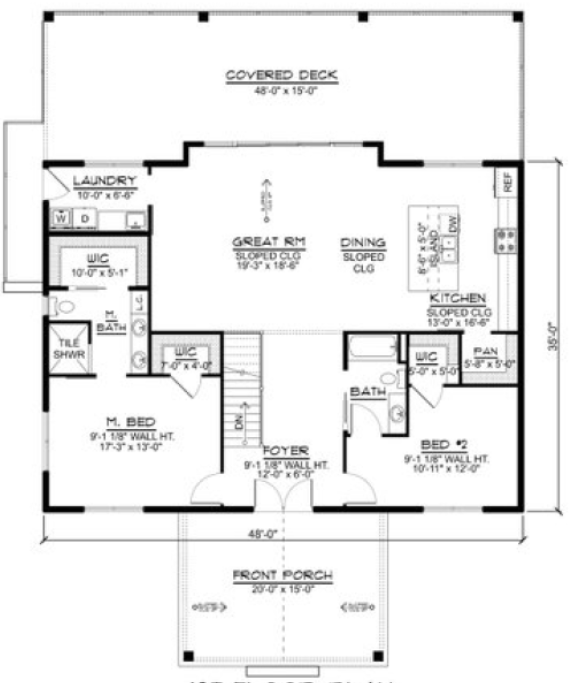
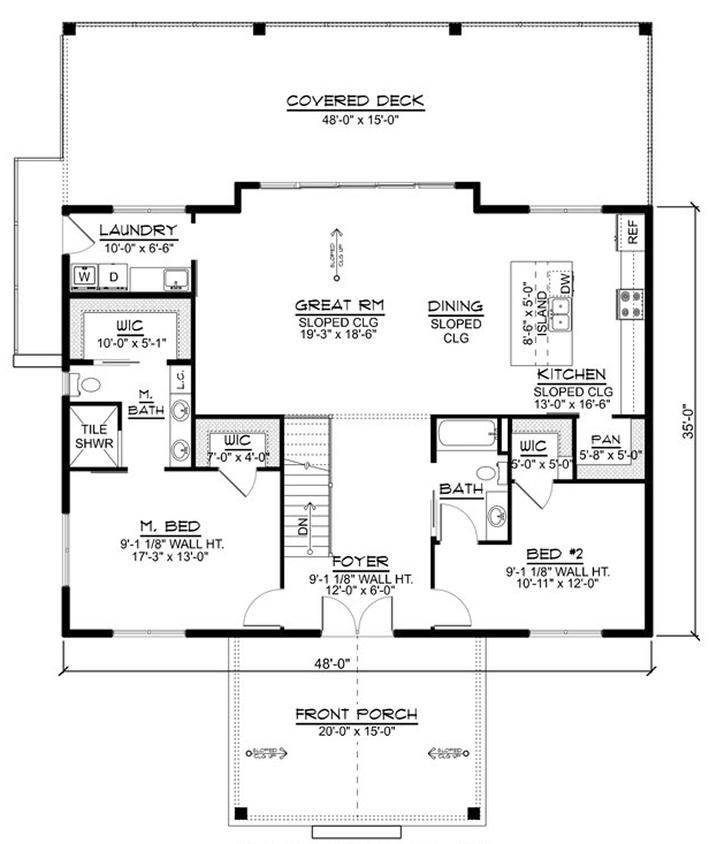
edit: blueprints images map and added pantry
edit: blueprints images map and added pantry

Changed region(s): [[0.0, 0.0, 1.0, 1.0], [0.3843, 0.0922, 0.5913, 0.1537], [0.5913, 0.3382, 0.68, 0.4305]]

diff --git a/main.py b/main.py
@@ -503,8 +503,8 @@ class Api:
 				# Generate HTML
 
 				result = """
-				<img src='assets/blueprints/duplex2.png' usemap="#image-map" style="width:auto; height:auto">
-				<map name="image-map">
+				<img src='assets/blueprints/duplex2.png' usemap="#image-map" style="width:auto; height:auto"><br>
+				<map name="image-map" style="display:none">
 				    <area id="duplex2_bedroom1" class="droptarget" data-bs-toggle="modal" data-bs-target="#duplex2_bedroom1Modal" alt="bedroom1" title="Click to View Bedroom 1" coords="17,424,223,637" shape="rect">
 				    <area id="duplex2_bedroom2" class="droptarget" data-bs-toggle="modal" data-bs-target="#duplex2_bedroom2Modal" alt="bedroom2" title="Click to View Bedroom 2" coords="211,14,379,225" shape="rect">
 				    <area id="duplex2_bedroom3" class="droptarget" data-bs-toggle="modal" data-bs-target="#duplex2_bedroom3Modal" alt="bedroom3" title="Click to View Bedroom 3" coords="16,16,184,227" shape="rect">
@@ -733,19 +733,19 @@ class Api:
 					'cont1_master_bathroom': 'cont1_master_bathroom'
 				}
 				result = """
-				<img src='assets/blueprints/contemporary1.png' usemap="#image-map" style="width:auto; height:auto">
+				<img src='assets/blueprints/contemporary1.png' usemap="#image-map" style="width:auto; height:auto"><br>
 
-				<map name="image-map">
-				    <area id="cont1_patio" class="droptarget" data-bs-toggle="modal" data-bs-target="#cont1_patioModal" alt="patio" title="Click to View Patio" coords="220,27,399,147" shape="rect">
-				    <area id="cont1_garage" class="droptarget" data-bs-toggle="modal" data-bs-target="#cont1_garageModal" alt="garage" title="Click to View Garage" coords="21,57,201,332" shape="rect">
-				    <area id="cont1_pantry" class="droptarget" data-bs-toggle="modal" data-bs-target="#cont1_pantryModal" alt="pantry" title="Click to View Pantry" coords="213,231,295,278" shape="rect">
+				<map name="image-map" style="display:none">
+				    <area id="cont1_patio" class="droptarget" data-bs-toggle="modal" data-bs-target="#cont1_patioModal" alt="patio" title="Click to View Patio" coords="234,27,438,163" shape="rect">
+				    <area id="cont1_garage" class="droptarget" data-bs-toggle="modal" data-bs-target="#cont1_garageModal" alt="garage" title="Click to View Garage" coords="35,70,213,356" shape="rect">
+				    <area id="cont1_pantry" class="droptarget" data-bs-toggle="modal" data-bs-target="#cont1_pantryModal" alt="pantry" title="Click to View Pantry" coords="233,297,318,248" shape="rect">
 				    <area id="cont1_kitchen" class="droptarget" data-bs-toggle="modal" data-bs-target="#cont1_kitchenModal" alt="kitchen" title="Click to View Kitchen" coords="306,171,428,368" shape="rect">
 				    <area id="cont1_bedroom2" class="droptarget" data-bs-toggle="modal" data-bs-target="#cont1_bedroom2Modal" alt="bedroom2" title="Click to View Bedroom 2" coords="471,171,598,326" shape="rect">
 				    <area id="cont1_bedroom3" class="droptarget" data-bs-toggle="modal" data-bs-target="#cont1_bedroom3Modal" alt="bedroom3" title="Click to View Bedroom 3" coords="612,173,780,293" shape="rect">
 				    <area id="cont1_greatroom" class="droptarget" data-bs-toggle="modal" data-bs-target="#cont1_greatroomModal" alt="greatroom" title="Click to View Great Room" coords="305,369,497,596" shape="rect">
-				    <area id="cont1_masterbedroom" class="droptarget" data-bs-toggle="modal" data-bs-target="#cont1_masterbedroomModal" alt="masterbedroom" title="Click to View Master Bedroom" coords="516,445,696,609" shape="rect">
-				    <area id="cont1_bathroom" class="droptarget" data-bs-toggle="modal" data-bs-target="#cont1_bathroomModal" alt="bathroom" title="Click to View Bathroom" coords="709,309,779,419" shape="rect">
-				    <area id="cont1_master_bathroom" class="droptarget" data-bs-toggle="modal" data-bs-target="#cont1_master_bathroomModal" alt="master_bathroom" title="Click to View Master Bathroom" coords="709,434,779,544" shape="rect">
+				    <area id="cont1_masterbedroom" class="droptarget" data-bs-toggle="modal" data-bs-target="#cont1_masterbedroomModal" alt="masterbedroom" title="Click to View Master Bedroom" coords="558,475,749,656" shape="rect">
+				    <area id="cont1_bathroom" class="droptarget" data-bs-toggle="modal" data-bs-target="#cont1_bathroomModal" alt="bathroom" title="Click to View Bathroom" coords="763,328,838,449" shape="rect">
+				    <area id="cont1_master_bathroom" class="droptarget" data-bs-toggle="modal" data-bs-target="#cont1_master_bathroomModal" alt="master_bathroom" title="Click to View Master Bathroom" coords="763,461,837,587" shape="rect">
 				</map>
 
 				<!-- Modal for Cont1 Patio -->
@@ -961,8 +961,8 @@ class Api:
 					'duplex3_living': 'duplex3_living'
 				}
 				result = """
-			<img src='assets/blueprints/duplex3.png' usemap="#image-map" style="width:auto; height:auto">
-				<map name="image-map">
+			<img src='assets/blueprints/duplex3.png' usemap="#image-map" style="width:auto; height:auto"><br>
+				<map name="image-map" style="display:none">
 				    <area id="duplex3_porch1" class="droptarget" data-bs-toggle="modal" data-bs-target="#duplex3_porch1Modal" alt="dining-kitchen1" title="Click to View Appliances" coords="30,895,243,965" shape="rect">
 				    <area id="duplex3_porch2" class="droptarget" data-bs-toggle="modal" data-bs-target="#duplex3_porch2Modal" alt="dining-kitchen1" title="Click to View Appliances" coords="40,6,277,91" shape="rect">
 				    <area id="duplex3_bedroom" class="droptarget" data-bs-toggle="modal" data-bs-target="#duplex3_bedroomModal" alt="dining-kitchen1" title="Click to View Appliances" coords="40,118,283,318" shape="rect">
@@ -1107,8 +1107,8 @@ class Api:
 
 				}
 				result = """
-				<img src='assets/blueprints/bungalow1.png' usemap="#image-map" style="width:auto; height:auto">
-				<map name="image-map">
+				<img src='assets/blueprints/bungalow1.png' usemap="#image-map" style="width:auto; height:auto"><br>
+				<map name="image-map" style="display:none">
 				    <area id="bungalow1_dining_kitchen" class="droptarget" data-bs-toggle="modal" data-bs-target="#bungalow1_dining_kitchenModal" alt="dining-kitchen1" title="Click to View Appliances" coords="230,303,60,194" shape="rect">
 				    <area id="bungalow1_bedroom1" class="droptarget" data-bs-toggle="modal" data-bs-target="#bungalow1_bedroom1Modal" alt="dining-kitchen1" title="Click to View Appliances" coords="428,243,267,144" shape="rect">
 				    <area id="bungalow1_bedroom2" class="droptarget" data-bs-toggle="modal" data-bs-target="#bungalow1_bedroom2Modal" alt="dining-kitchen1" title="Click to View Appliances" coords="616,241,483,145" shape="rect">
@@ -1341,25 +1341,49 @@ class Api:
 					'cont2_covered_porch': 'cont2_covered_porch',
 
 					'cont2_bathroom': 'cont2_bathroom',
-					'cont2_bed3': 'cont2_bed3'
+					'cont2_bed3': 'cont2_bed3',
+					'cont2_pantry':'cont2_pantry'
 				}
 				result = """
-				<img src='assets/blueprints/contemporary2.png' usemap="#image-map" style="width:auto; height:auto">
-				<map name="image-map">
-				    <area id="cont2_mudroom" class="droptarget" data-bs-toggle="modal" data-bs-target="#cont2_mudroomModal" alt="mudroom" title="Click to View Mud Room" coords="16,27,230,106" shape="rect">
-				    <area id="cont2_kitchen" class="droptarget" data-bs-toggle="modal" data-bs-target="#cont2_kitchenModal" alt="kitchen" title="Click to View Kitchen" coords="241,27,445,165" shape="rect">
-				    <area id="cont2_bed2" class="droptarget" data-bs-toggle="modal" data-bs-target="#cont2_bed2Modal" alt="bed2" title="Click to View Bedroom 2" coords="460,30,605,164" shape="rect">
-				    <area id="cont2_mech" class="droptarget" data-bs-toggle="modal" data-bs-target="#cont2_mechModal" alt="mech" title="Click to View Mechanical" coords="20,111,136,152" shape="rect">
-				    <area id="cont2_master_bathroom" class="droptarget" data-bs-toggle="modal" data-bs-target="#cont2_master_bathroomModal" alt="master_bathroom" title="Click to View Master Bathroom" coords="21,163,134,264" shape="rect">
-				    <area id="cont2_wic" class="droptarget" data-bs-toggle="modal" data-bs-target="#cont2_wicModal" alt="wic" title="Click to View Walk-In Closet" coords="145,199,228,273" shape="rect">
-				    <area id="cont2_dining" class="droptarget" data-bs-toggle="modal" data-bs-target="#cont2_diningModal" alt="dining" title="Click to View Dining Room" coords="240,178,446,290" shape="rect">
-				    <area id="cont2_living" class="droptarget" data-bs-toggle="modal" data-bs-target="#cont2_livingModal" alt="living" title="Click to View Living Room" coords="239,295,444,466" shape="rect">
-				    <area id="cont2_covered_porch" class="droptarget" data-bs-toggle="modal" data-bs-target="#cont2_covered_porchModal" alt="covered_porch" title="Click to View Covered Porch" coords="14,477,606,567" shape="rect">
-				    <area id="cont2_bathroom" class="droptarget" data-bs-toggle="modal" data-bs-target="#cont2_bathroomModal" alt="bathroom" title="Click to View Bathroom" coords="497,202,606,292" shape="rect">
+				<img src='assets/blueprints/contemporary2.png' usemap="#image-map" style="width:auto; height:auto"><br>
+				<map name="image-map" style="display:none">
+				    <area id="cont2_mudroom" class="droptarget" data-bs-toggle="modal" data-bs-target="#cont2_mudroomModal" alt="mudroom" title="Click to View Mud Room" coords="79,52,364,162" shape="rect">
+				    <area id="cont2_kitchen" class="droptarget" data-bs-toggle="modal" data-bs-target="#cont2_kitchenModal" alt="kitchen" title="Click to View Kitchen" coords="385,82,586,248" shape="rect">
+				    <area id="cont2_bed2" class="droptarget" data-bs-toggle="modal" data-bs-target="#cont2_bed2Modal" alt="bed2" title="Click to View Bedroom 2" coords="685,53,888,246" shape="rect">
+				    <area id="cont2_mech" class="droptarget" data-bs-toggle="modal" data-bs-target="#cont2_mechModal" alt="mech" title="Click to View Mechanical" coords="73,173,234,225" shape="rect">
+				    <area id="cont2_master_bathroom" class="droptarget" data-bs-toggle="modal" data-bs-target="#cont2_master_bathroomModal" alt="master_bathroom" title="Click to View Master Bathroom" coords="76,237,237,391" shape="rect">
+				    <area id="cont2_wic" class="droptarget" data-bs-toggle="modal" data-bs-target="#cont2_wicModal" alt="wic" title="Click to View Walk-In Closet" coords="249,251,367,387" shape="rect">
+				    <area id="cont2_dining" class="droptarget" data-bs-toggle="modal" data-bs-target="#cont2_diningModal" alt="dining" title="Click to View Dining Room" coords="386,255,667,441" shape="rect">
+				    <area id="cont2_living" class="droptarget" data-bs-toggle="modal" data-bs-target="#cont2_livingModal" alt="living" title="Click to View Living Room" coords="379,444,665,662" shape="rect">
+				    <area id="cont2_covered_porch" class="droptarget" data-bs-toggle="modal" data-bs-target="#cont2_covered_porchModal" alt="covered_porch" title="Click to View Covered Porch" coords="68,684,898,802" shape="rect">
+				    <area id="cont2_bathroom" class="droptarget" data-bs-toggle="modal" data-bs-target="#cont2_bathroomModal" alt="bathroom" title="Click to View Bathroom" coords="741,293,890,407" shape="rect">
 				  	<area id="cont2_master_bedroom" class="droptarget" data-bs-toggle="modal" data-bs-target="#cont2_master_bedroomModal" alt="master_bathroom" title="Click to View Master Bathroom" coords="34,291,210,432" shape="rect">  
-				    <area id="cont2_bed3" class="droptarget" data-bs-toggle="modal" data-bs-target="#cont2_bed3Modal" alt="bed3" title="Click to View Bedroom 3" coords="460,316,601,444" shape="rect">
+				    <area id="cont2_bed3" class="droptarget" data-bs-toggle="modal" data-bs-target="#cont2_bed3Modal" alt="bed3" title="Click to View Bedroom 3" coords="690,438,890,636" shape="rect">
+				    <area id="cont2_pantry" class="droptarget" data-bs-toggle="modal" data-bs-target="#cont2_pantryModal" alt="bed3" title="Click to View Pantry" coords="594,50,673,130" shape="rect">
+
+
 				</map>
 
+
+
+				<div class="modal fade" id="cont2_pantryModal" data-bs-backdrop="static" data-bs-keyboard="false" tabindex="-1" role="dialog" aria-labelledby="exampleModalLabel" aria-hidden="true">
+				    <div class="modal-dialog modal-dialog-centered" role="document">
+				        <div class="modal-content">
+				            <div class="modal-header">
+				                <h5 class="modal-title" id="exampleModalLabel">Pantry</h5>
+				                <div style="width:100px" class="row">
+				                    <img src="delete.png" style="margin: auto; width: 35px!important;" class="droptarget" id="delete" style="width:45px;height:45px;border:none!important;">
+				                    <div class="col p-2">
+				                        <button type="button" class="btn-close" data-bs-dismiss="modal" aria-label="Close"></button>
+				                    </div>
+				                </div>
+				            </div>
+				            <div class="modal-body d-flex">
+				                {cont2_pantry}
+				            </div>
+				        </div>
+				    </div>
+				</div>
 
 
 				<div class="modal fade" id="cont2_master_bedroomModal" data-bs-backdrop="static" data-bs-keyboard="false" tabindex="-1" role="dialog" aria-labelledby="exampleModalLabel" aria-hidden="true">
@@ -1614,16 +1638,16 @@ class Api:
 
 				}
 				result = """
-				<img src='assets/blueprints/duplex1.png' usemap="#image-map" style="width:auto; height:auto; margin:auto">
-				<map name="image-map">
-				    <area id="duplex1_service" class="droptarget" data-bs-toggle="modal" data-bs-target="#duplex1_serviceModal" alt="service" title="Click to View Service" coords="438,95,578,141" shape="rect">
-				    <area id="duplex1_bathroom" class="droptarget" data-bs-toggle="modal" data-bs-target="#duplex1_bathroomModal" alt="bathroom" title="Click to View Bathroom" coords="352,134,422,247" shape="rect">
-				    <area id="duplex1_bedroom1" class="droptarget" data-bs-toggle="modal" data-bs-target="#duplex1_bedroom1Modal" alt="bedroom1" title="Click to View Bedroom 1" coords="187,171,336,317" shape="rect">
-				    <area id="duplex1_bedroom2" class="droptarget" data-bs-toggle="modal" data-bs-target="#duplex1_bedroom2Modal" alt="bedroom2" title="Click to View Bedroom 2" coords="188,342,336,496" shape="rect">
-				    <area id="duplex1_kitchen" class="droptarget" data-bs-toggle="modal" data-bs-target="#duplex1_kitchenModal" alt="kitchen" title="Click to View Kitchen" coords="440,153,595,263" shape="rect">
-				    <area id="duplex1_dining" class="droptarget" data-bs-toggle="modal" data-bs-target="#duplex1_diningModal" alt="dining" title="Click to View Dining" coords="348,270,593,415" shape="rect">
-				    <area id="duplex1_living_room" class="droptarget" data-bs-toggle="modal" data-bs-target="#duplex1_living_roomModal" alt="living room" title="Click to View Living Room" coords="351,428,457,425,585,429,585,585,427,589,430,506,353,505,349,428" shape="poly">
-				    <area id="duplex1_porch" class="droptarget" data-bs-toggle="modal" data-bs-target="#duplex1_porchModal" alt="porch" title="Click to View Porch" coords="178,522,414,600" shape="rect">
+				<img src='assets/blueprints/duplex1.png' usemap="#image-map" style="width:auto; height:auto; margin:auto"> <br>
+				<map name="image-map" style="display:none">
+				    <area id="duplex1_service" class="droptarget" data-bs-toggle="modal" data-bs-target="#duplex1_serviceModal" alt="service" title="Click to View Service" coords="551,23,743,82" shape="rect">
+				    <area id="duplex1_bathroom" class="droptarget" data-bs-toggle="modal" data-bs-target="#duplex1_bathroomModal" alt="bathroom" title="Click to View Bathroom" coords="446,57,538,212" shape="rect">
+				    <area id="duplex1_bedroom1" class="droptarget" data-bs-toggle="modal" data-bs-target="#duplex1_bedroom1Modal" alt="bedroom1" title="Click to View Bedroom 1" coords="233,94,428,293" shape="rect">
+				    <area id="duplex1_bedroom2" class="droptarget" data-bs-toggle="modal" data-bs-target="#duplex1_bedroom2Modal" alt="bedroom2" title="Click to View Bedroom 2" coords="236,313,427,507" shape="rect">
+				    <area id="duplex1_kitchen" class="droptarget" data-bs-toggle="modal" data-bs-target="#duplex1_kitchenModal" alt="kitchen" title="Click to View Kitchen" coords="552,94,748,219" shape="rect">
+				    <area id="duplex1_dining" class="droptarget" data-bs-toggle="modal" data-bs-target="#duplex1_diningModal" alt="dining" title="Click to View Dining" coords="447,227,744,398" shape="rect">
+				    <area id="duplex1_living_room" class="droptarget" data-bs-toggle="modal" data-bs-target="#duplex1_living_roomModal" alt="living room" title="Click to View Living Room" coords="445,413,738,419,743,606,546,611,536,518,448,506" shape="poly">
+				    <area id="duplex1_porch" class="droptarget" data-bs-toggle="modal" data-bs-target="#duplex1_porchModal" alt="porch" title="Click to View Porch" coords="225,529,519,615" shape="rect">
 				</map>
 
 				<!-- Modal for Duplex1 Service -->
@@ -1813,23 +1837,23 @@ class Api:
 
 				}
 				result = """
-				<img src='assets/blueprints/contemporary3.png' usemap="#image-map" style="width:auto; height:auto; margin:auto">
-				<map name="image-map">
-				    <area id="cont3_covered_deck" class="droptarget" data-bs-toggle="modal" data-bs-target="#cont3_covered_deckModal" alt="service" title="Click to Appliances" coords="55,25,516,134" shape="rect">
-				    <area id="cont3_laundry" class="droptarget" data-bs-toggle="modal" data-bs-target="#cont3_laundryModal" alt="bathroom" title="Click to View Appliances" coords="55,171,145,227" shape="rect">
-				    <area id="cont3_greatroom" class="droptarget" data-bs-toggle="modal" data-bs-target="#cont3_greatroomModal" alt="bedroom1" title="Click to View Appliances" coords="156,167,324,328" shape="rect">
-				    <area id="cont3_dining" class="droptarget" data-bs-toggle="modal" data-bs-target="#cont3_diningModal" alt="bedroom2" title="Click to View Appliances" coords="330,168,398,328" shape="rect">
-				    <area id="cont3_wic1" class="droptarget" data-bs-toggle="modal" data-bs-target="#cont3_wic1Modal" alt="kitchen" title="Click to View Appliances" coords="49,240,146,283" shape="rect">
-				    <area id="cont3_wic2" class="droptarget" data-bs-toggle="modal" data-bs-target="#cont3_wic2Modal" alt="dining" title="Click to View Appliances" coords="154,336,218,371" shape="rect">
-				    <area id="cont3_wic3" class="droptarget" data-bs-toggle="modal" data-bs-target="#cont3_wic3Modal" alt="living room" title="Click to View Appliances" coords="411,336,456,384" shape="rect">
-				    <area id="cont3_master_bathroom" class="droptarget" data-bs-toggle="modal" data-bs-target="#cont3_master_bathroomModal" alt="porch" title="Click to View Appliances" coords="51,294,146,370" shape="rect">
-					<area id="cont3_master_bedroom" class="droptarget" data-bs-toggle="modal" data-bs-target="#cont3_master_bedroomModal" alt="porch" title="Click to View Appliances" coords="52,381,214,503" shape="rect">
-				    <area id="cont3_foyer" class="droptarget" data-bs-toggle="modal" data-bs-target="#cont3_foyerModal" alt="porch" title="Click to View Appliances" coords="225,337,339,481" shape="rect">
-					<area id="cont3_bathroom" class="droptarget" data-bs-toggle="modal" data-bs-target="#cont3_bathroomModal" alt="porch" title="Click to View Appliances" coords="350,335,403,432" shape="rect">
-				    <area id="cont3_bedroom" class="droptarget" data-bs-toggle="modal" data-bs-target="#cont3_bedroomModal" alt="porch" title="Click to View Appliances" coords="415,392,514,391,513,503,411,501,351,499,350,441,412,440" shape="poly">
-				    <area id="cont3_front_porch" class="droptarget" data-bs-toggle="modal" data-bs-target="#cont3_front_porchModal" alt="porch" title="Click to View Appliances" coords="187,517,380,658" shape="rect">
-				     <area id="cont3_kitchen" class="droptarget" data-bs-toggle="modal" data-bs-target="#cont3_kitchenModal" alt="porch" title="Click to View Appliances" coords="400,173,515,325" shape="rect">
-				       <area id="cont3_pan" class="droptarget" data-bs-toggle="modal" data-bs-target="#cont3_panModal" alt="porch" title="Click to View Appliances" coords="464,338,516,382" shape="rect">
+				<img src='assets/blueprints/contemporary3.png' usemap="#image-map" style="width:auto; height:auto; margin:auto"> <br>
+				<map name="image-map" style="display:none">
+				    <area id="cont3_covered_deck" class="droptarget" data-bs-toggle="modal" data-bs-target="#cont3_covered_deckModal" alt="service" title="Click to Appliances" coords="84,41,619,177" shape="rect">
+				    <area id="cont3_laundry" class="droptarget" data-bs-toggle="modal" data-bs-target="#cont3_laundryModal" alt="bathroom" title="Click to View Appliances" coords="72,217,188,283" shape="rect">
+				    <area id="cont3_greatroom" class="droptarget" data-bs-toggle="modal" data-bs-target="#cont3_greatroomModal" alt="bedroom1" title="Click to View Appliances" coords="202,202,393,411" shape="rect">
+				    <area id="cont3_dining" class="droptarget" data-bs-toggle="modal" data-bs-target="#cont3_diningModal" alt="bedroom2" title="Click to View Appliances" coords="410,214,508,414" shape="rect">
+				    <area id="cont3_wic1" class="droptarget" data-bs-toggle="modal" data-bs-target="#cont3_wic1Modal" alt="kitchen" title="Click to View Appliances" coords="71,304,187,357" shape="rect">
+				    <area id="cont3_wic2" class="droptarget" data-bs-toggle="modal" data-bs-target="#cont3_wic2Modal" alt="dining" title="Click to View Appliances" coords="202,420,273,465" shape="rect">
+				    <area id="cont3_wic3" class="droptarget" data-bs-toggle="modal" data-bs-target="#cont3_wic3Modal" alt="living room" title="Click to View Appliances" coords="514,420,570,476" shape="rect">
+				    <area id="cont3_master_bathroom" class="droptarget" data-bs-toggle="modal" data-bs-target="#cont3_master_bathroomModal" alt="porch" title="Click to View Appliances" coords="77,369,184,463" shape="rect">
+					<area id="cont3_master_bedroom" class="droptarget" data-bs-toggle="modal" data-bs-target="#cont3_master_bedroomModal" alt="porch" title="Click to View Appliances" coords="74,481,272,623" shape="rect">
+				    <area id="cont3_foyer" class="droptarget" data-bs-toggle="modal" data-bs-target="#cont3_foyerModal" alt="porch" title="Click to View Appliances" coords="290,419,427,624" shape="rect">
+					<area id="cont3_bathroom" class="droptarget" data-bs-toggle="modal" data-bs-target="#cont3_bathroomModal" alt="porch" title="Click to View Appliances" coords="437,421,501,536" shape="rect">
+				    <area id="cont3_bedroom" class="droptarget" data-bs-toggle="modal" data-bs-target="#cont3_bedroomModal" alt="porch" title="Click to View Appliances" coords="514,493,640,489,637,623,518,622,445,623,440,580,440,546,516,549" shape="poly">
+				    <area id="cont3_front_porch" class="droptarget" data-bs-toggle="modal" data-bs-target="#cont3_front_porchModal" alt="porch" title="Click to View Appliances" coords="233,643,480,816" shape="rect">
+				     <area id="cont3_kitchen" class="droptarget" data-bs-toggle="modal" data-bs-target="#cont3_kitchenModal" alt="porch" title="Click to View Appliances" coords="518,212,644,411" shape="rect">
+				       <area id="cont3_pan" class="droptarget" data-bs-toggle="modal" data-bs-target="#cont3_panModal" alt="porch" title="Click to View Appliances" coords="580,422,637,477" shape="rect">
 
 				</map>
 
@@ -2156,22 +2180,24 @@ class Api:
 
 				}
 				result = """
-				<img src='assets/blueprints/bungalow2.png' usemap="#image-map" style="width:auto; height:auto">
-				<map name="image-map">
-				    <area id="bungalow2_open_terrace" class="droptarget" data-bs-toggle="modal" data-bs-target="#bungalow2_open_terraceModal" alt="dining-kitchen1" title="Click to View Appliances" coords="539,131,396,90" shape="rect">
-				    <area id="bungalow2_kitchen" class="droptarget" data-bs-toggle="modal" data-bs-target="#bungalow2_kitchenModal" alt="dining-kitchen1" title="Click to View Appliances" coords="364,208,245,109" shape="rect">
-				    <area id="bungalow2_dining" class="droptarget" data-bs-toggle="modal" data-bs-target="#bungalow2_diningModal" alt="dining-kitchen1" title="Click to View Appliances" coords="538,299,393,166" shape="rect">
-				    <area id="bungalow2_bedroom1" class="droptarget" data-bs-toggle="modal" data-bs-target="#bungalow2_bedroom1Modal" alt="dining-kitchen1" title="Click to View Appliances" coords="679,284,569,161" shape="rect">
-				    <area id="bungalow2_bedroom2" class="droptarget" data-bs-toggle="modal" data-bs-target="#bungalow2_bedroom2Modal" alt="dining-kitchen1" title="Click to View Appliances" coords="677,520,567,397" shape="rect">
-				    <area id="bungalow2_t_b" class="droptarget" data-bs-toggle="modal" data-bs-target="#bungalow2_t_bModal" alt="dining-kitchen1" title="Click to View Appliances" coords="306,292,226,235" shape="rect">
-				    <area id="bungalow2_wic" class="droptarget" data-bs-toggle="modal" data-bs-target="#bungalow2_wicModal" alt="dining-kitchen1" title="Click to View Appliances" coords="371,303,318,232" shape="rect">
-				    <area id="bungalow2_garage" class="droptarget" data-bs-toggle="modal" data-bs-target="#bungalow2_garageModal" alt="dining-kitchen1" title="Click to View Appliances" coords="203,467,42,317" shape="rect">
-				    <area id="bungalow2_master_bedroom" class="droptarget" data-bs-toggle="modal" data-bs-target="#bungalow2_master_bedroomModal" alt="dining-kitchen1" title="Click to View Appliances" coords="367,482,230,318" shape="rect">
-				    <area id="bungalow2_living_room" class="droptarget" data-bs-toggle="modal" data-bs-target="#bungalow2_living_roomModal" alt="dining-kitchen1" title="Click to View Appliances" coords="540,470,388,300" shape="rect">
-					<area id="bungalow2_bathroom" class="droptarget" data-bs-toggle="modal" data-bs-target="#bungalow2_bathroomModal" alt="dining-kitchen1" title="Click to View Appliances" coords="709,367,611,306" shape="rect">
+				
+				<map name="image-map" style="display:none">
+				    <area id="bungalow2_open_terrace" class="droptarget" data-bs-toggle="modal" data-bs-target="#bungalow2_open_terraceModal" alt="dining-kitchen1" title="Click to View Appliances" coords="437,98,630,157" shape="rect">
+				    <area id="bungalow2_kitchen" class="droptarget" data-bs-toggle="modal" data-bs-target="#bungalow2_kitchenModal" alt="dining-kitchen1" title="Click to View Appliances" coords="268,126,415,246" shape="rect">
+				    <area id="bungalow2_dining" class="droptarget" data-bs-toggle="modal" data-bs-target="#bungalow2_diningModal" alt="dining-kitchen1" title="Click to View Appliances" coords="438,172,627,343" shape="rect">
+				    <area id="bungalow2_bedroom1" class="droptarget" data-bs-toggle="modal" data-bs-target="#bungalow2_bedroom1Modal" alt="dining-kitchen1" title="Click to View Appliances" coords="643,165,783,335" shape="rect">
+				    <area id="bungalow2_bedroom2" class="droptarget" data-bs-toggle="modal" data-bs-target="#bungalow2_bedroom2Modal" alt="dining-kitchen1" title="Click to View Appliances" coords="642,439,782,609" shape="rect">
+				    <area id="bungalow2_t_b" class="droptarget" data-bs-toggle="modal" data-bs-target="#bungalow2_t_bModal" alt="dining-kitchen1" title="Click to View Appliances" coords="257,274,357,334" shape="rect">
+				    <area id="bungalow2_wic" class="droptarget" data-bs-toggle="modal" data-bs-target="#bungalow2_wicModal" alt="dining-kitchen1" title="Click to View Appliances" coords="367,266,422,345" shape="rect">
+				    <area id="bungalow2_garage" class="droptarget" data-bs-toggle="modal" data-bs-target="#bungalow2_garageModal" alt="dining-kitchen1" title="Click to View Appliances" coords="40,354,235,543" shape="rect">
+				    <area id="bungalow2_master_bedroom" class="droptarget" data-bs-toggle="modal" data-bs-target="#bungalow2_master_bedroomModal" alt="dining-kitchen1" title="Click to View Appliances" coords="262,385,418,545" shape="rect">
+				    <area id="bungalow2_living_room" class="droptarget" data-bs-toggle="modal" data-bs-target="#bungalow2_living_roomModal" alt="dining-kitchen1" title="Click to View Appliances" coords="437,367,625,545" shape="rect">
+					<area id="bungalow2_bathroom" class="droptarget" data-bs-toggle="modal" data-bs-target="#bungalow2_bathroomModal" alt="dining-kitchen1" title="Click to View Appliances" coords="700,351,807,421" shape="rect">
 					<area id="bungalow2_porch" class="droptarget" data-bs-toggle="modal" data-bs-target="#bungalow2_porchModal" alt="dining-kitchen1" title="Click to View Appliances" coords="545,532,374,487" shape="rect">
 
 				</map>
+
+				<img src='assets/blueprints/bungalow2.png' usemap="#image-map" style="width:auto; height:auto"><br>
 
 					<!-- Bootstrap Modal for Bungalow2 Open Terrace -->
 					<div class="modal fade" id="bungalow2_open_terraceModal" data-bs-backdrop="static" data-bs-keyboard="false" tabindex="-1" role="dialog" aria-labelledby="exampleModalLabel" aria-hidden="true">
@@ -2430,8 +2456,8 @@ class Api:
 
 				}
 				result = """
-				<img src='assets/blueprints/bungalow3.png' usemap="#image-map" style="width:auto; height:auto">
-				<map name="image-map">
+				<img src='assets/blueprints/bungalow3.png' usemap="#image-map" style="width:auto; height:auto"><br>
+				<map name="image-map" style="display:none">
 				    <area id="bungalow3_bedroom1" class="droptarget" data-bs-toggle="modal" data-bs-target="#bungalow3_bedroom1Modal" alt="dining-kitchen1" title="Click to View Appliances" coords="164,109,413,360" shape="rect">
 				    <area id="bungalow3_bedroom2" class="droptarget" data-bs-toggle="modal" data-bs-target="#bungalow3_bedroom2Modal" alt="dining-kitchen1" title="Click to View Appliances" coords="158,540,423,795" shape="rect">
 				    <area id="bungalow3_kitchen" class="droptarget" data-bs-toggle="modal" data-bs-target="#bungalow3_kitchenModal" alt="dining-kitchen1" title="Click to View Appliances" coords="457,97,720,326" shape="rect">
